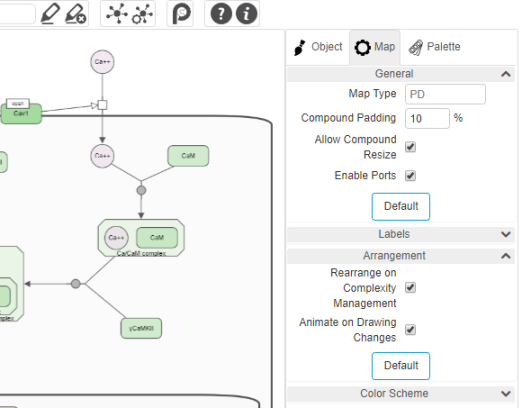
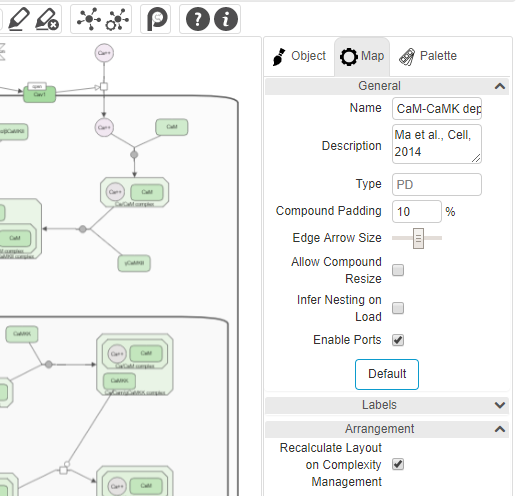
web page changes for 1.0.5

diff --git a/tutorials.html b/tutorials.html
@@ -54,6 +54,8 @@
 
         <p> Newt is a viewer and editor of maps drawn in SBGN notation. Specifically, currently it supports Process Description (PD) and Activity Flow (AF) languages of this notation. Please refer to related <a href="http://sbgn.github.io/sbgn/templates">reference cards</a> and <a href="http://sbgn.github.io/sbgn/specifications">specifications</a> for details of these languages. </p>
 
+        <p> Newt can be launched with a blank model, where a map can be created from scratch or an existing one can be uploaded for editing. In addition, one can launch Newt with a remote SBGN model specified as a URL or as a <a href="http://www.pathwaycommons.org/pc2/" target="_blank">Pathway Commons URI</a>. Examples: launch with <a href="http://web.newteditor.org/?URL=https://raw.githubusercontent.com/sbgn/libsbgn/master/test-files/PD/activated_stat1alpha_induction_of_the_irf1_gene.sbgn" target="_blank">URL</a> or <a href="http://web.newteditor.org/?URI=http://identifiers.org/reactome/R-HSA-6803211" target="_blank">URI</a>.
+
         <p> <a href="tutorials-basics.html">Here</a> is a short tutorial illustrating basics of Newt. </p>
 
         <h2 id="menubar-and-toolbar">Menubar and toolbar
@@ -76,6 +78,7 @@
         <span class="right"><a href="images/map-properties.png" data-lightbox="image-right-panel" data-title="Configuring the map through options"><img src="images/map-properties.png" style="width: 400px;"/></a></span>
         <p> The tab titled "Map" on the right panel is for configuring the drawing of the map. It can be enabled with "File | Map Properties..." or through the associated tool on the toolbar. </p>
         <p> Numerous settings of a map from general properties like compound paddings to label related settings such as whether to fit labels to nodes, to color scheme can be set using this tab. </p>
+        <p> Name and description of the map can also be set using this panel.</p>
 
         <h3>Palette</h3>
         <span class="left"><a href="images/palette.png" data-lightbox="image-right-panel" data-title="Constructing map using the palette"><img src="images/palette.png" style="width: 400px;"/></a></span>
@@ -87,7 +90,22 @@
           <a href="#top-of-tutorials"><img src="images/back-to-top.svg" height=16px/></a></h2>
         <p> Newt can read and write an extended version of <a href="https://github.com/sbgn/sbgn/wiki/SBGN_ML">SBGNML</a> files. Extension includes style of map objects (such as color and font), custom properties (e.g. Uniprot ID associated with a macromolecule), and hidden/collapsed map content; thus, such information is restored upon save-reload. </p>
 
-        <p> In addition, File menu can be used to export the current map as a static image (either as a raster file in PNG or JPG or as scalable vector graphics in SVG).</p>
+        <p> In addition, AF models can be imported to Newt from simple tab-delimited files. An example model formatted in this manner follows:</p>
+
+        <p style="font-family:courier; margin-left:30px">
+        SBGNViz AF 1.0<br>
+        Sample Pathway title<br>
+        This is a sample pathway description.<br>
+        --NODE_NAME	NODE_ID	NODE_TYPE	PARENT_ID	POSX	POSY	WIDTH	HEIGHT--<br>
+        ERBB2	1	BIOLOGICAL_ACTIVITY	-1<br>
+        NRAS	2	BIOLOGICAL_ACTIVITY	-1<br>
+        ...<br>
+        --EDGE_ID	SOURCE	TARGET	EDGE_TYPE--<br>
+        11	1	2	NEGATIVE_INFLUENCE<br>
+        ...
+        </p>
+
+        <p> Furthermore, File menu can be used to export the current map as a static image (either as a raster file in PNG or JPG or as scalable vector graphics in SVG).</p>
 
         <h2 id="convenient-editing">Convenient editing
           <a href="#top-of-tutorials"><img src="images/back-to-top.svg" height=16px/></a></h2>

diff --git a/faq.html b/faq.html
@@ -40,7 +40,7 @@
             A: Newt supports <a target="_blank" href="http://sbgn.github.io/sbgn/">SBGN</a> Process Description (PD) and Activity Flow (AF) maps. Users are allowed mix up notation from these two languages at the cost of disabled validation checks during creation.</p>
 
 	  <p> <b>Q: What format does Newt use to save maps?</b><br>
-            A: Newt can read <a target="_blank" href="https://github.com/sbgn/sbgn/wiki/SBGN_ML">SBGNML</a> files. Models constructed with Newt can be saved in SBGNML or can be exported as static (raster or vector) images. We plan to support tab-delimited files and <a target="_blank" href="http://www.celldesigner.org/"> CellDesigner </a> file format for importing models in the near future.</p>
+            A: Newt can read <a target="_blank" href="https://github.com/sbgn/sbgn/wiki/SBGN_ML">SBGNML</a>files. Models constructed with Newt can be saved in SBGNML or can be exported as static (raster or vector) images. In addition, the user can import AF models from simple, tab-delimited text files. We plan to support importing <a target="_blank" href="http://www.celldesigner.org/"> CellDesigner </a> file format in the near future.</p>
 
 	  <p> <b>Q: Does Newt save styling information (e.g. color, font, custom annotations, etc.)?</b><br>
             A: Yes, any style information per node/edge/map is saved as an extension to standard SBGNML. Thus, you can restore such information when you load such files back up on Newt but such information might be lost when imported to other tools (since style information isn't supported by standard SBGNML).</p>

diff --git a/index.html b/index.html
@@ -46,6 +46,7 @@
         <li> State-of-the-art complexity management capabilities through hide-show or highlight parts of a map and collapse-expand compound structures
         <li> Advanced diagramming through interactive move, resize, and styling of map objects, re-routing of interactions, and grid  & alignment guideline support
         <li> Facilities for querying, viewing, and editing pathways in <a href="http://pathwaycommons.org">Pathway Commons</a>
+        <li> Launching with a remote SBGN model specified as a URL (<a href="http://web.newteditor.org/?URL=https://raw.githubusercontent.com/sbgn/libsbgn/master/test-files/PD/activated_stat1alpha_induction_of_the_irf1_gene.sbgn" target="_blank">example</a>) or as a URI (<a href="http://web.newteditor.org/?URI=http://identifiers.org/reactome/R-HSA-6803211" target="_blank">example</a>)
         </ul>
         <h2>Source code</h2>
         <p>Newt source code can be found on <a href="https://github.com/iVis-at-Bilkent/newt">this</a> Github repository.</p>

diff --git a/js/scripts.js b/js/scripts.js
@@ -37,6 +37,9 @@ document.write("                <h3>Search</h3>");
 document.write("                <gcse:search>");
 document.write("                </gcse:search>");
 document.write("        <h3>Latest News</h3>");
+document.write("                <h4>Miscellaneous improvements</h4>");
+document.write("                <h5>January 4, 2018</h5>");
+document.write("                <p>Newt was updated to include various improvements such as multiple document support, launch with remote URL or URI, and loading AF models with simple tab-delimited text files.<br /></p>");
 document.write("                <h4>Improved layout performance</h4>");
 document.write("                <h5>November 20, 2017</h5>");
 document.write("                <p>Newt was updated to include a much faster layout.<br /></p>");
